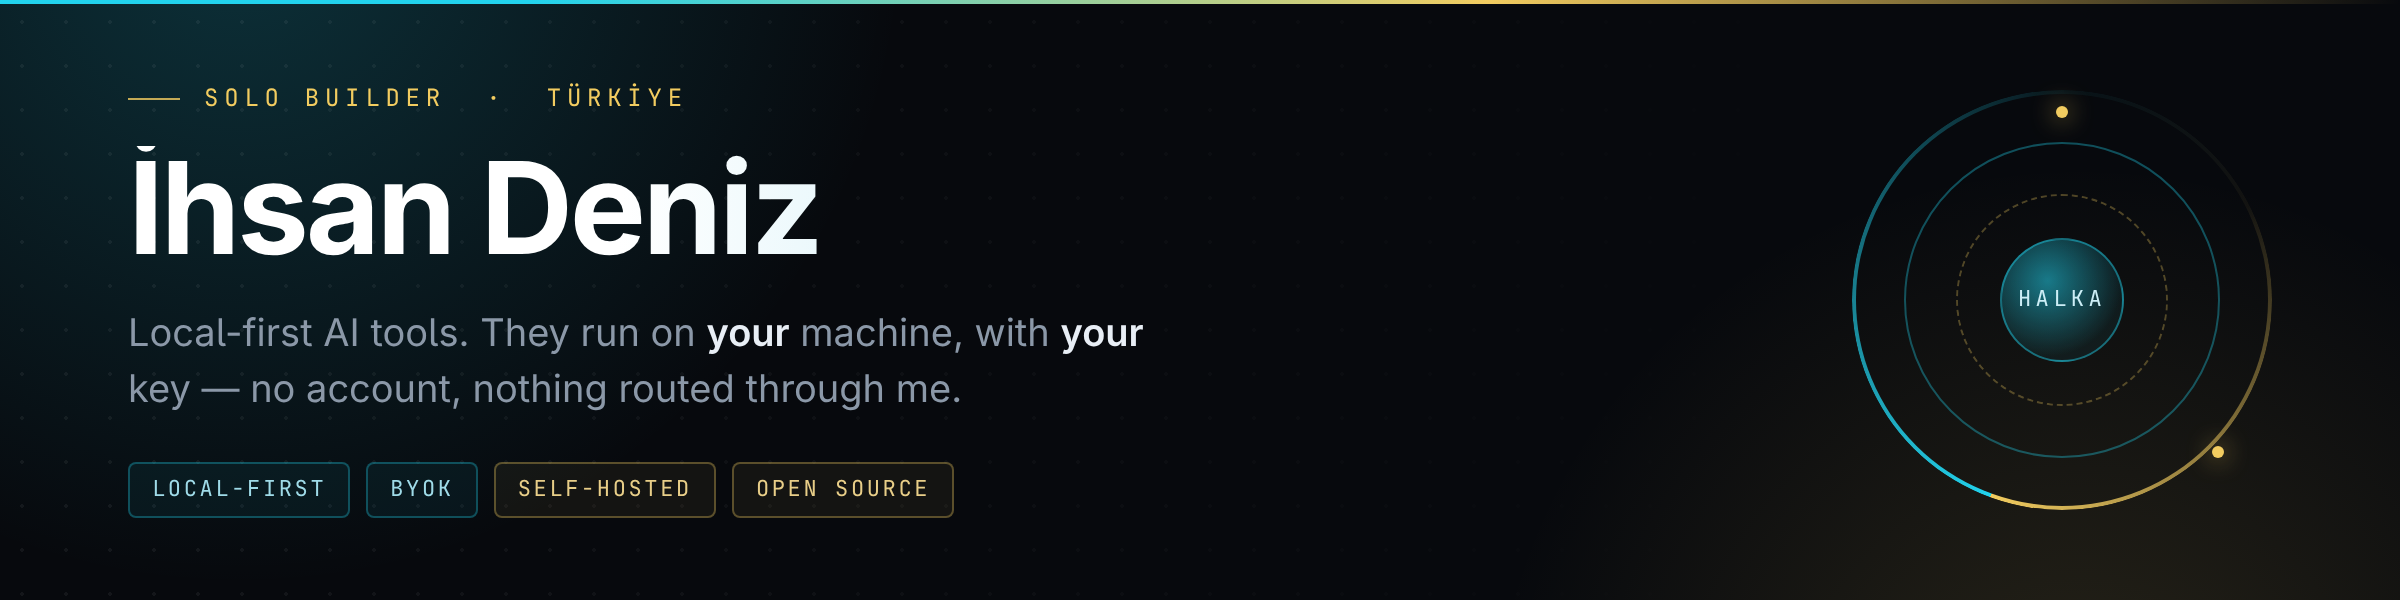
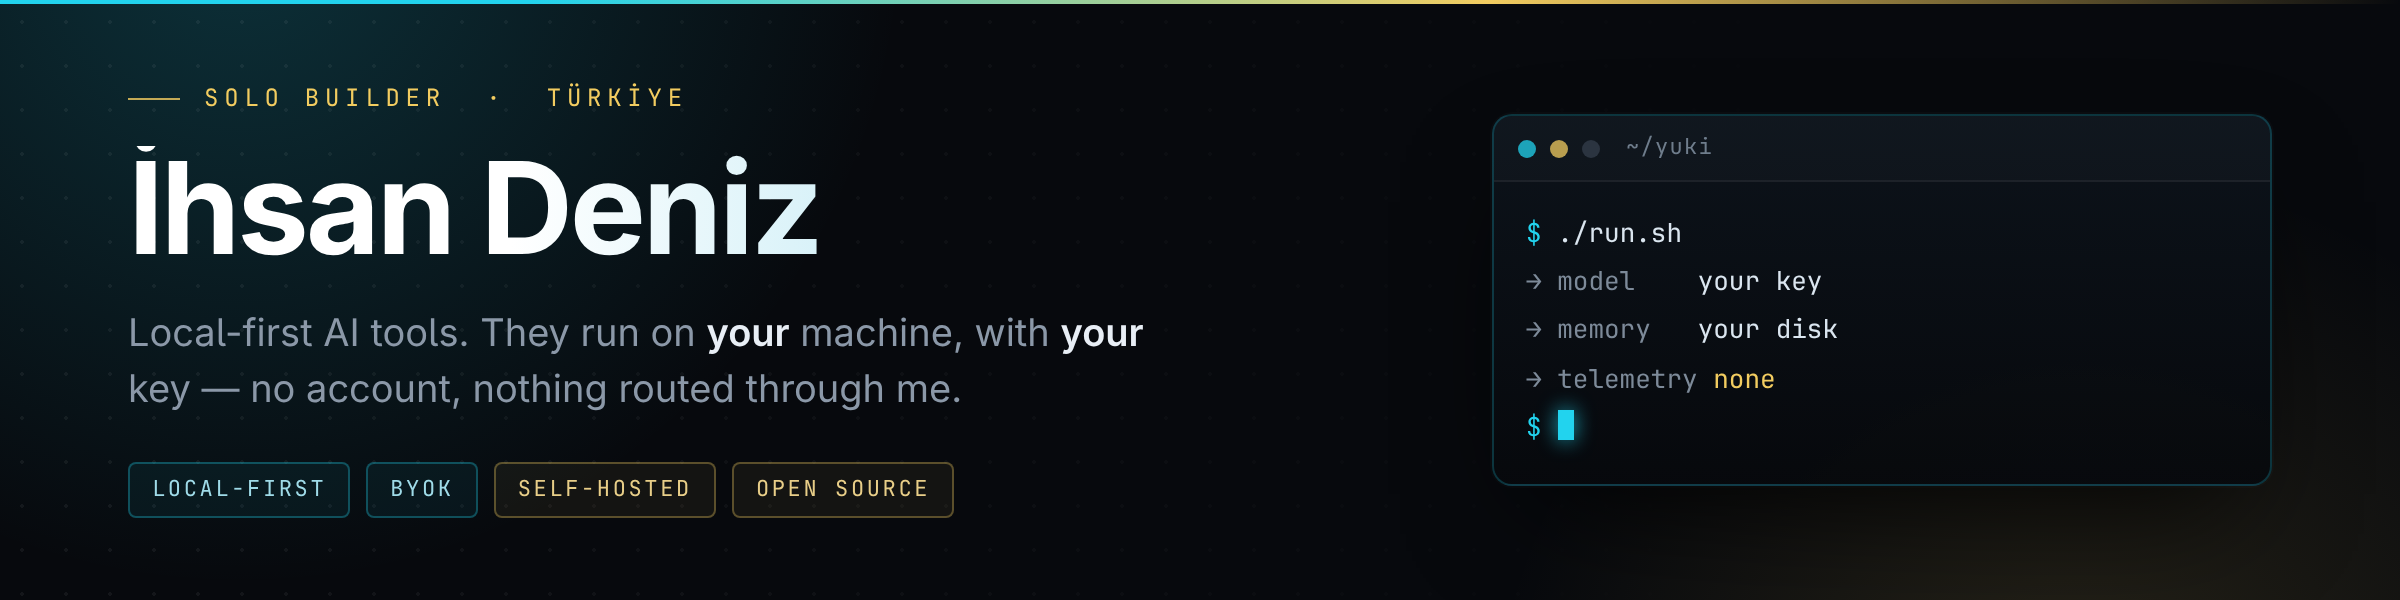
header: halka yerine terminal kartı (run.sh → your key / your disk / telemetry none)

diff --git a/build/header.html b/build/header.html
@@ -47,24 +47,20 @@
     color:#9fdbe8;background:rgba(34,211,238,.06)}
   .chip.g{border-color:rgba(242,204,96,.32);color:#e8ce88;background:rgba(242,204,96,.06)}
 
-  /* HALKA — concentric ring mark */
-  .mark{width:210px;height:210px;position:relative;flex:none}
-  .ring{position:absolute;inset:0;border-radius:50%;border:1px solid rgba(255,255,255,.07)}
-  .r1{inset:0;border:2px solid transparent;
-      background:conic-gradient(from 200deg,var(--cyan),rgba(34,211,238,.05) 45%,rgba(242,204,96,.05) 62%,var(--gold) 100%) border-box;
-      -webkit-mask:linear-gradient(#000 0 0) padding-box,linear-gradient(#000 0 0);
-      -webkit-mask-composite:xor;mask-composite:exclude;}
-  .r2{inset:26px;border:1px solid rgba(34,211,238,.35)}
-  .r3{inset:52px;border:1px dashed rgba(242,204,96,.30)}
-  .core{position:absolute;inset:74px;border-radius:50%;
-    background:radial-gradient(circle at 38% 34%,rgba(34,211,238,.55),rgba(34,211,238,.06) 70%);
-    border:1px solid rgba(34,211,238,.45);
-    display:flex;align-items:center;justify-content:center}
-  .core span{font-family:"JetBrains Mono",monospace;font-size:11px;letter-spacing:.2em;color:#cdeef6}
-  .tick{position:absolute;width:6px;height:6px;border-radius:50%;background:var(--gold);
-    box-shadow:0 0 12px rgba(242,204,96,.9)}
-  .t1{top:8px;left:50%;transform:translateX(-50%)}
-  .t2{bottom:26px;right:24px}
+
+  .term{width:390px;flex:none;border:1px solid rgba(34,211,238,.22);border-radius:10px;
+    background:linear-gradient(180deg,rgba(13,20,28,.95),rgba(7,9,13,.95));
+    box-shadow:0 24px 60px -20px rgba(0,0,0,.9),0 0 0 1px rgba(255,255,255,.02);overflow:hidden}
+  .tbar{display:flex;align-items:center;gap:7px;padding:9px 12px;border-bottom:1px solid rgba(255,255,255,.06);
+    background:rgba(255,255,255,.02)}
+  .tdot{width:9px;height:9px;border-radius:50%;background:#2b3440}
+  .tdot.c{background:rgba(34,211,238,.75)} .tdot.g{background:rgba(242,204,96,.75)}
+  .tname{margin-left:6px;font-family:"JetBrains Mono",monospace;font-size:11px;color:#6f7d8c;letter-spacing:.06em}
+  .tbody{padding:14px 16px 16px;font-family:"JetBrains Mono",monospace;font-size:13px;line-height:1.85}
+  .tbody .p{color:var(--cyan)} .tbody .c{color:#dbe6f0}
+  .tbody .o{color:#7d8a99} .tbody .ok{color:var(--gold)}
+  .cur{display:inline-block;width:8px;height:15px;background:var(--cyan);vertical-align:-2px;
+    box-shadow:0 0 10px rgba(34,211,238,.8)}
 </style>
 <div class="glow-c"></div><div class="glow-g"></div><div class="grid"></div><div class="rule"></div>
 <div class="wrap">
@@ -79,11 +75,16 @@
       <span class="chip g">OPEN SOURCE</span>
     </div>
   </div>
-  <div class="mark">
-    <div class="ring r1"></div>
-    <div class="ring r2"></div>
-    <div class="ring r3"></div>
-    <div class="core"><span>HALKA</span></div>
-    <div class="tick t1"></div><div class="tick t2"></div>
+
+  <div class="term">
+    <div class="tbar"><span class="tdot c"></span><span class="tdot g"></span><span class="tdot"></span>
+      <span class="tname">~/yuki</span></div>
+    <div class="tbody">
+      <div><span class="p">$</span> <span class="c">./run.sh</span></div>
+      <div class="o">→ model&nbsp;&nbsp;&nbsp; <span class="c">your key</span></div>
+      <div class="o">→ memory&nbsp;&nbsp; <span class="c">your disk</span></div>
+      <div class="o">→ telemetry <span class="ok">none</span></div>
+      <div><span class="p">$</span> <span class="cur"></span></div>
+    </div>
   </div>
 </div>
